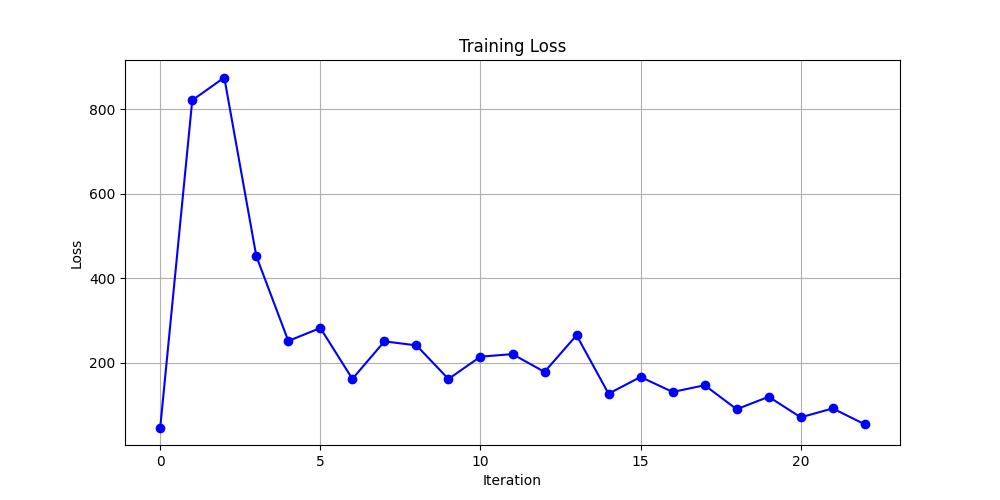
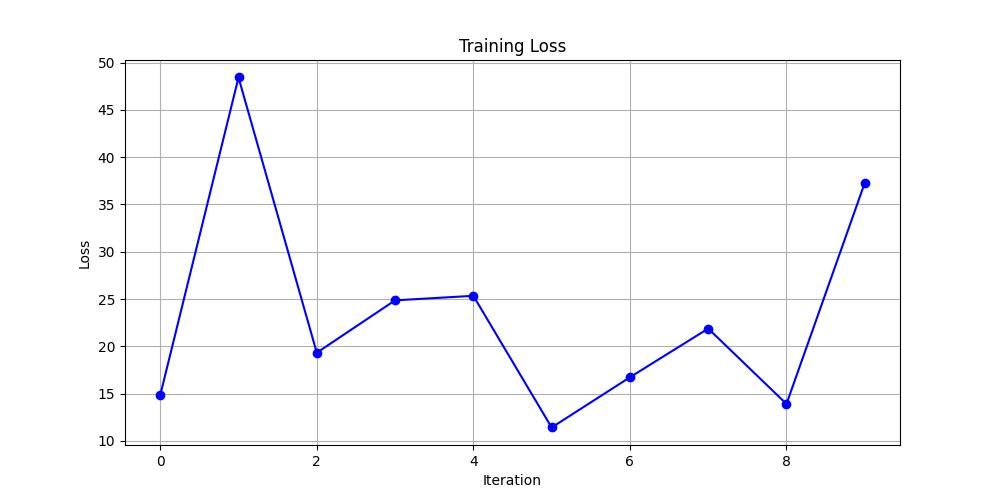
resume training from best_model

diff --git a/model.py b/model.py
@@ -4,6 +4,7 @@ import matplotlib.pyplot as plt
 import torch
 from PIL import Image, ImageOps
 from create_datasets import pil_to_tensor, pad_image
+import os
 
 def live_plot(iteration, loss, epoch_list, val_loss_list):
     plt.figure(figsize=(10, 5))
@@ -40,17 +41,17 @@ class STN(nn.Module):
         # Localization network
         self.localization = nn.Sequential(
             nn.Conv2d(3, 8, kernel_size=7),
-            nn.BatchNorm2d(8),
+            # nn.BatchNorm2d(8),
             nn.MaxPool2d(2, stride=2),
             nn.ReLU(True),
             nn.Dropout(p=0.3),
             nn.Conv2d(8, 12, kernel_size=5),
-            nn.BatchNorm2d(12),
+            # nn.BatchNorm2d(12),
             nn.MaxPool2d(2, stride=2),
             nn.ReLU(True),
             nn.Dropout(p=0.3),
             nn.Conv2d(12, 16, kernel_size=3),
-            nn.BatchNorm2d(16),
+            # nn.BatchNorm2d(16),
             nn.MaxPool2d(2, stride=2),
             nn.ReLU(True)
         )
@@ -92,7 +93,10 @@ class STN(nn.Module):
 
         return affine
     
-    
+def load_model(model, model_file):
+    model.load_state_dict(torch.load(model_file))
+    model.eval()  # Set the model to evaluation mode
+    return model
 
 def train_stn(dataloader, dataloader_val, num_epochs=10, learning_rate=0.001, padded_image_size=(1280, 1280), batch_size=16, best_model_file = 'best_model.pth'):
     device = torch.device("cuda" if torch.cuda.is_available() else "cpu")
@@ -100,6 +104,9 @@ def train_stn(dataloader, dataloader_val, num_epochs=10, learning_rate=0.001, pa
     
     # Initialize the STN model
     stn = STN(padded_image_size, batch_size).to(device)
+    
+    if os.path.exists("/workspaces/automoated_drone_image_alignment/best_model.pth"):
+        stn = load_model(stn, best_model_file)
     
     # Loss function and optimizer
     criterion = nn.MSELoss()

diff --git a/train.py b/train.py
@@ -9,7 +9,7 @@ list_of_trial_folders = os.listdir(image_pair_folder)
 best_model_file = 'best_model.pth'
 batch_size = 8
 num_epochs = 200
-learning_rate = 0.0005
+learning_rate = 0.0002
 training_set_size = 1024
 val_set_size = 256
 padded_image_size = (1280, 1280)
